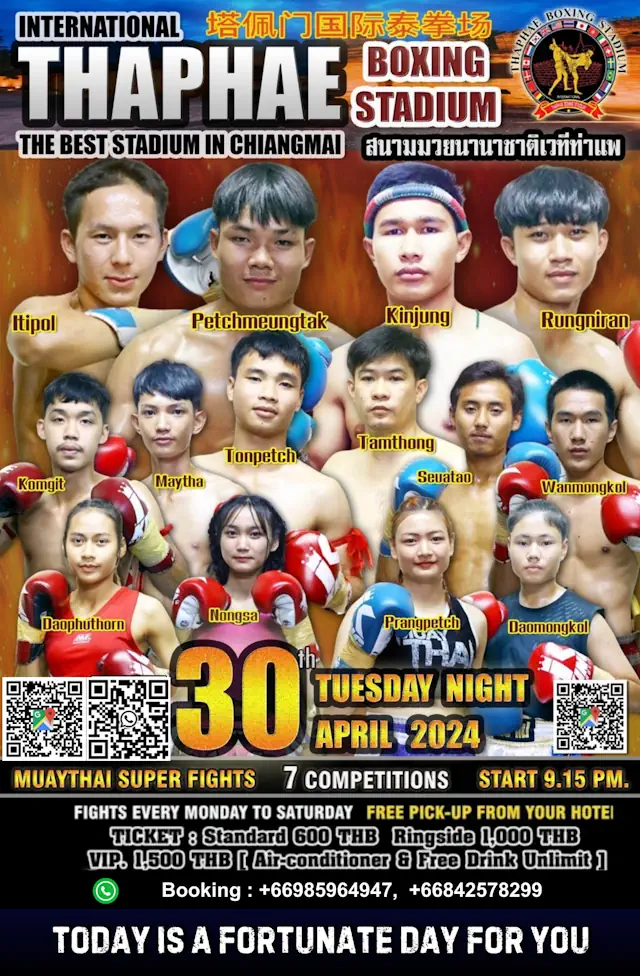
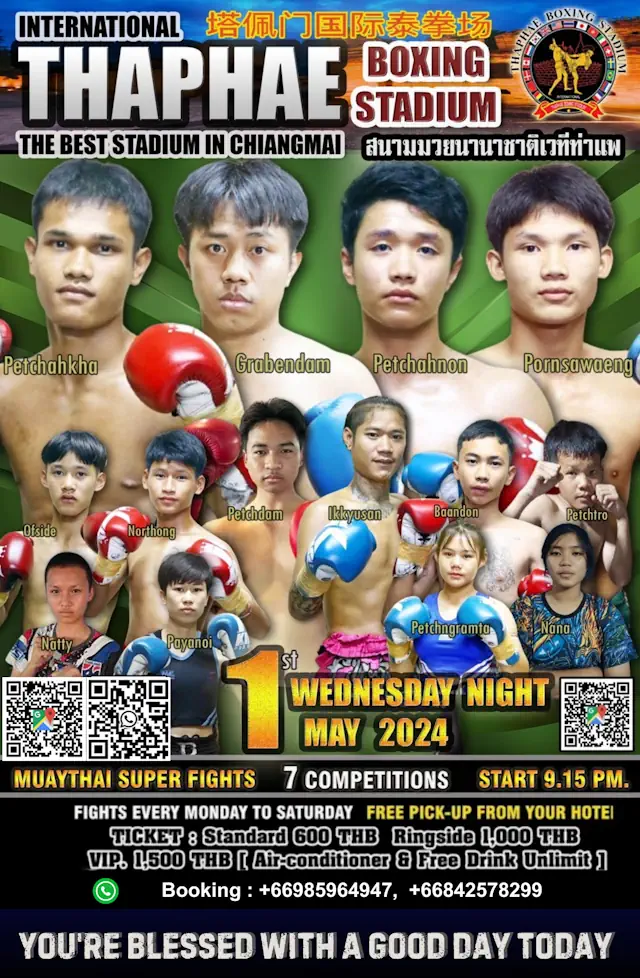
q

diff --git a/utils/chiangmaiEv.js b/utils/chiangmaiEv.js
@@ -1,5 +1,5 @@
 const moment = require('moment-timezone');
-let startDate = moment.tz('2024-04-27 21:00', 'Asia/Bangkok');
+let startDate = moment.tz('2024-05-01 21:00', 'Asia/Bangkok');
 const events = [];
 const numberOfDays = 3;
 let daysGenerated = 0;
